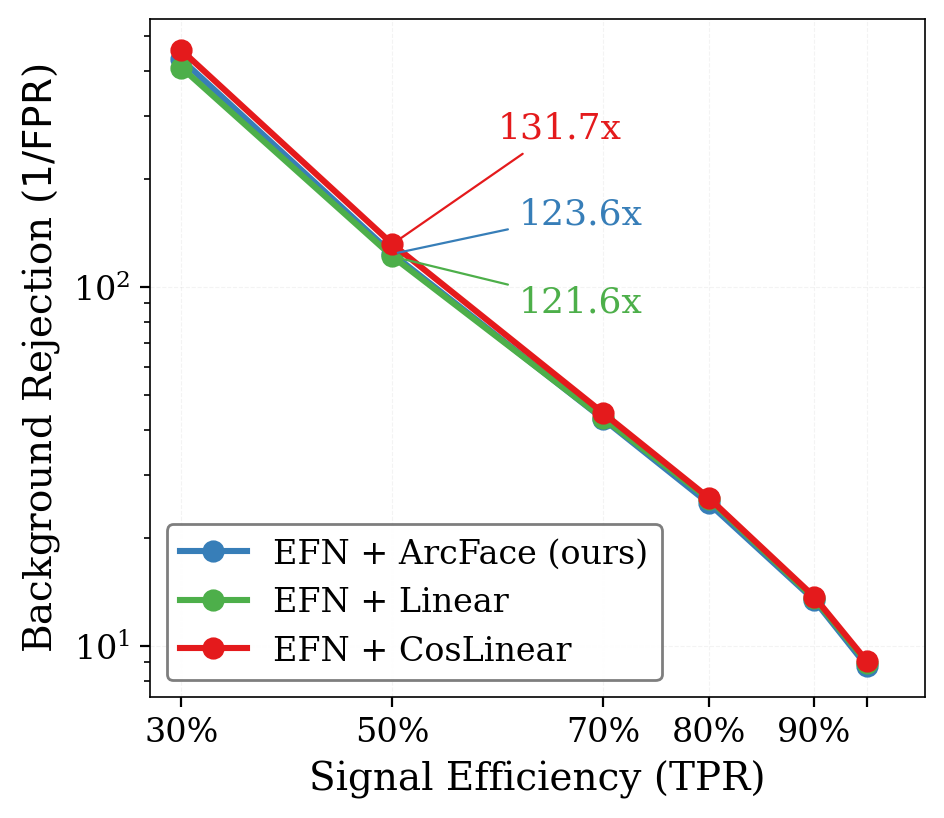
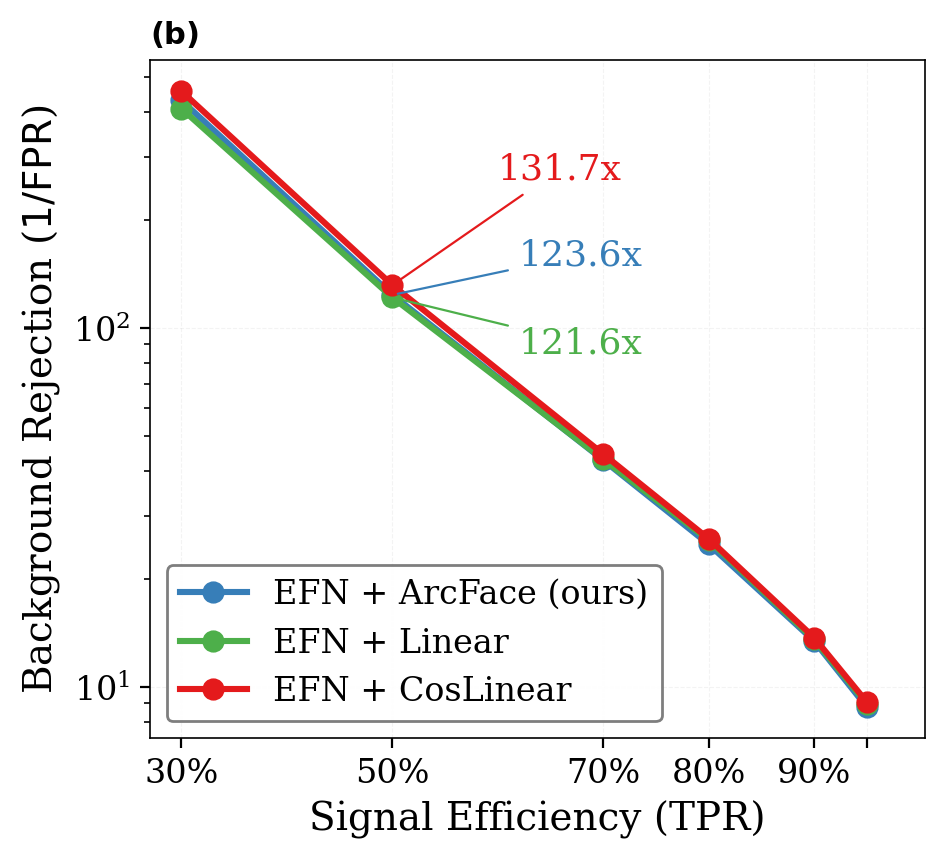
Revert page-capture-era figure tweaks (user request, surgical)

diff --git a/scripts/analysis/compute_bootstrap_ci.py b/scripts/analysis/compute_bootstrap_ci.py
@@ -350,7 +350,7 @@ def replot(scores_npz, results_json):
         fpr, tpr, _ = roc_curve(labels, scores)
         roc_auc_val = auc(fpr, tpr)
         ax.plot(fpr, tpr, color=colors[name], linewidth=2.2,
-                label=f"{DISPLAY_NAMES[name]}")
+                label=f"{DISPLAY_NAMES[name]} (AUC={roc_auc_val:.3f})")
         tprs = []
         for _ in range(200):
             idx = rng.choice(n, n, replace=True)
@@ -366,6 +366,7 @@ def replot(scores_npz, results_json):
     ax.set_xlabel('False Positive Rate', fontsize=14)
     ax.set_ylabel('True Positive Rate', fontsize=14)
     ax.tick_params(labelsize=12)
+    panel_label(ax, "(a)", loc="left")
     ax.legend(loc="lower right", fontsize=12,
               **{k: v for k, v in LEGEND_KWARGS.items() if k not in ("ncol", "fontsize")})
     add_grid(ax)
@@ -378,7 +379,7 @@ def replot(scores_npz, results_json):
         ax_in.plot(fpr, tpr, color=colors[name], linewidth=1.6)
     ax_in.set_xlim(-0.005, 0.105)
     ax_in.set_ylim(0.78, 1.005)
-    ax_in.set_xticks([0, 0.1])
+    ax_in.set_xticks([0, 0.05, 0.1])
     ax_in.set_yticks([0.8, 0.9, 1.0])
     ax_in.tick_params(labelsize=10)
     ax_in.set_title("zoom: low FPR", fontsize=11, pad=3)
@@ -413,6 +414,7 @@ def replot(scores_npz, results_json):
     ax.set_xlabel('Signal Efficiency (TPR)', fontsize=14)
     ax.set_ylabel('Background Rejection ($1/\\mathrm{FPR}$)', fontsize=14)
     ax.tick_params(labelsize=12)
+    panel_label(ax, "(b)", loc="left")
     ax.set_xticks(tpr_values)
     ax.set_xticklabels([f'{int(v*100)}%' if v < 0.95 else '' for v in tpr_values])
     ax.set_xlim(0.27, 1.005)

diff --git a/scripts/analysis/compute_subclass_composition.py b/scripts/analysis/compute_subclass_composition.py
@@ -76,8 +76,8 @@ def render(matrix: np.ndarray, row_labels: list, partition: str) -> None:
     apply_style()
     fig, (axT, axQ) = plt.subplots(1, 2, figsize=(10, 4.4), constrained_layout=True)
     for ax, mat, rows, cols, title in [
-        (axT, top_mat, top_rows, ["True\nPositive", "False\nPositive"], "Top subclasses"),
-        (axQ, qcd_mat, qcd_rows, ["True\nNegative", "False\nNegative"], "QCD subclasses"),
+        (axT, top_mat, top_rows, ["True Positive", "False Positive"], "Top subclasses"),
+        (axQ, qcd_mat, qcd_rows, ["True Negative", "False Negative"], "QCD subclasses"),
     ]:
         im = ax.imshow(mat, cmap="Blues", vmin=0, vmax=100, aspect="auto")
         ax.set_xticks([0, 1], cols, fontsize=15)
@@ -89,7 +89,7 @@ def render(matrix: np.ndarray, row_labels: list, partition: str) -> None:
                 if v >= 0.05:
                     ax.text(j, i, f"{v:.1f}", ha="center", va="center",
                             fontsize=20, color="white" if v > 50 else "black")
-    axT.set_ylabel("Discovered subclass", fontsize=15)
+    axT.set_ylabel(f"Discovered subclass ({partition}-label partition)", fontsize=15)
     cbar = fig.colorbar(im, ax=[axT, axQ], shrink=0.95, pad=0.02)
     cbar.set_label("Percentage (%)", fontsize=16)
     cbar.ax.tick_params(labelsize=15)

diff --git a/LOG.md b/LOG.md
@@ -15,6 +15,10 @@ SSOT of the work: goal, current position, and what's done. Newest log entry on t
 
 ## Done
 
+### 2026-10-13 p.m.: surgical revert of page-capture-era figure tweaks (user request)
+
+- Restored: ROC AUC-suffix legend + 3-tick inset + (a)/(b) panel labels; composition single-line ticks + long ylabel. Kept: annotation stagger positions, print-size native fonts, Dense/Dilute filename maps, style contract. Replotted (zero JSON diff), PNGs pushed to paper + gallery.
+
 ### 2026-10-13 p.m.: figure print-size fix (3 replot-capable figs)
 
 - ROC/rejection natives → 14/12/12/13pt; composition → 15/17/20pt with print 0.48→0.90 textwidth. Effective print sizes now ~8-13pt (was 4-8pt). Zero JSON diff, PNGs pushed to paper + gallery.
